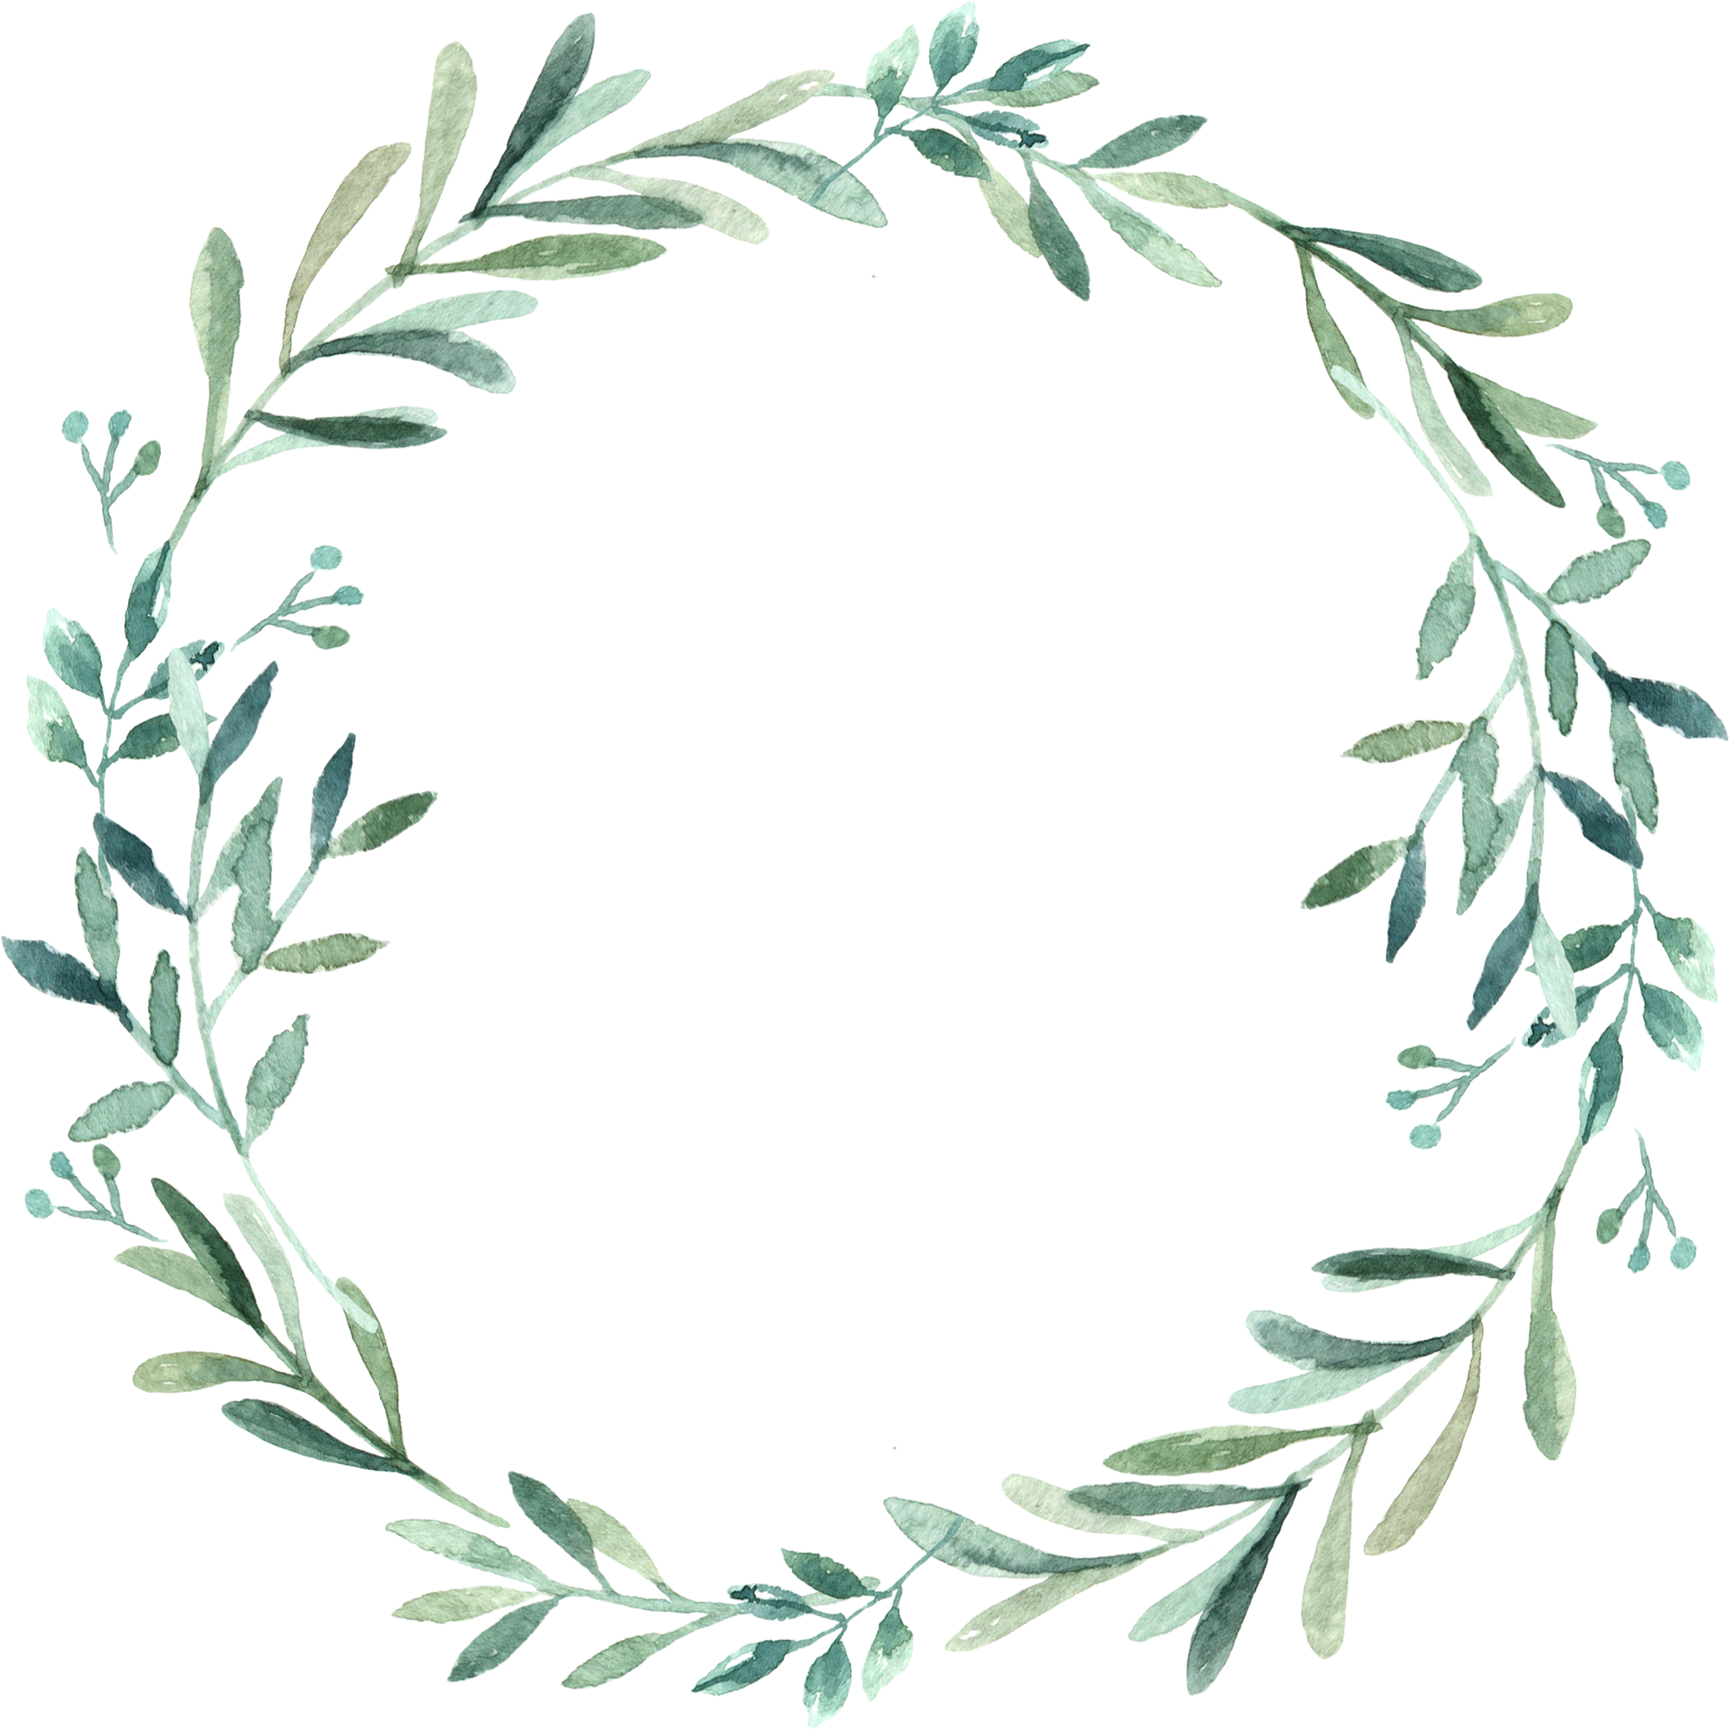
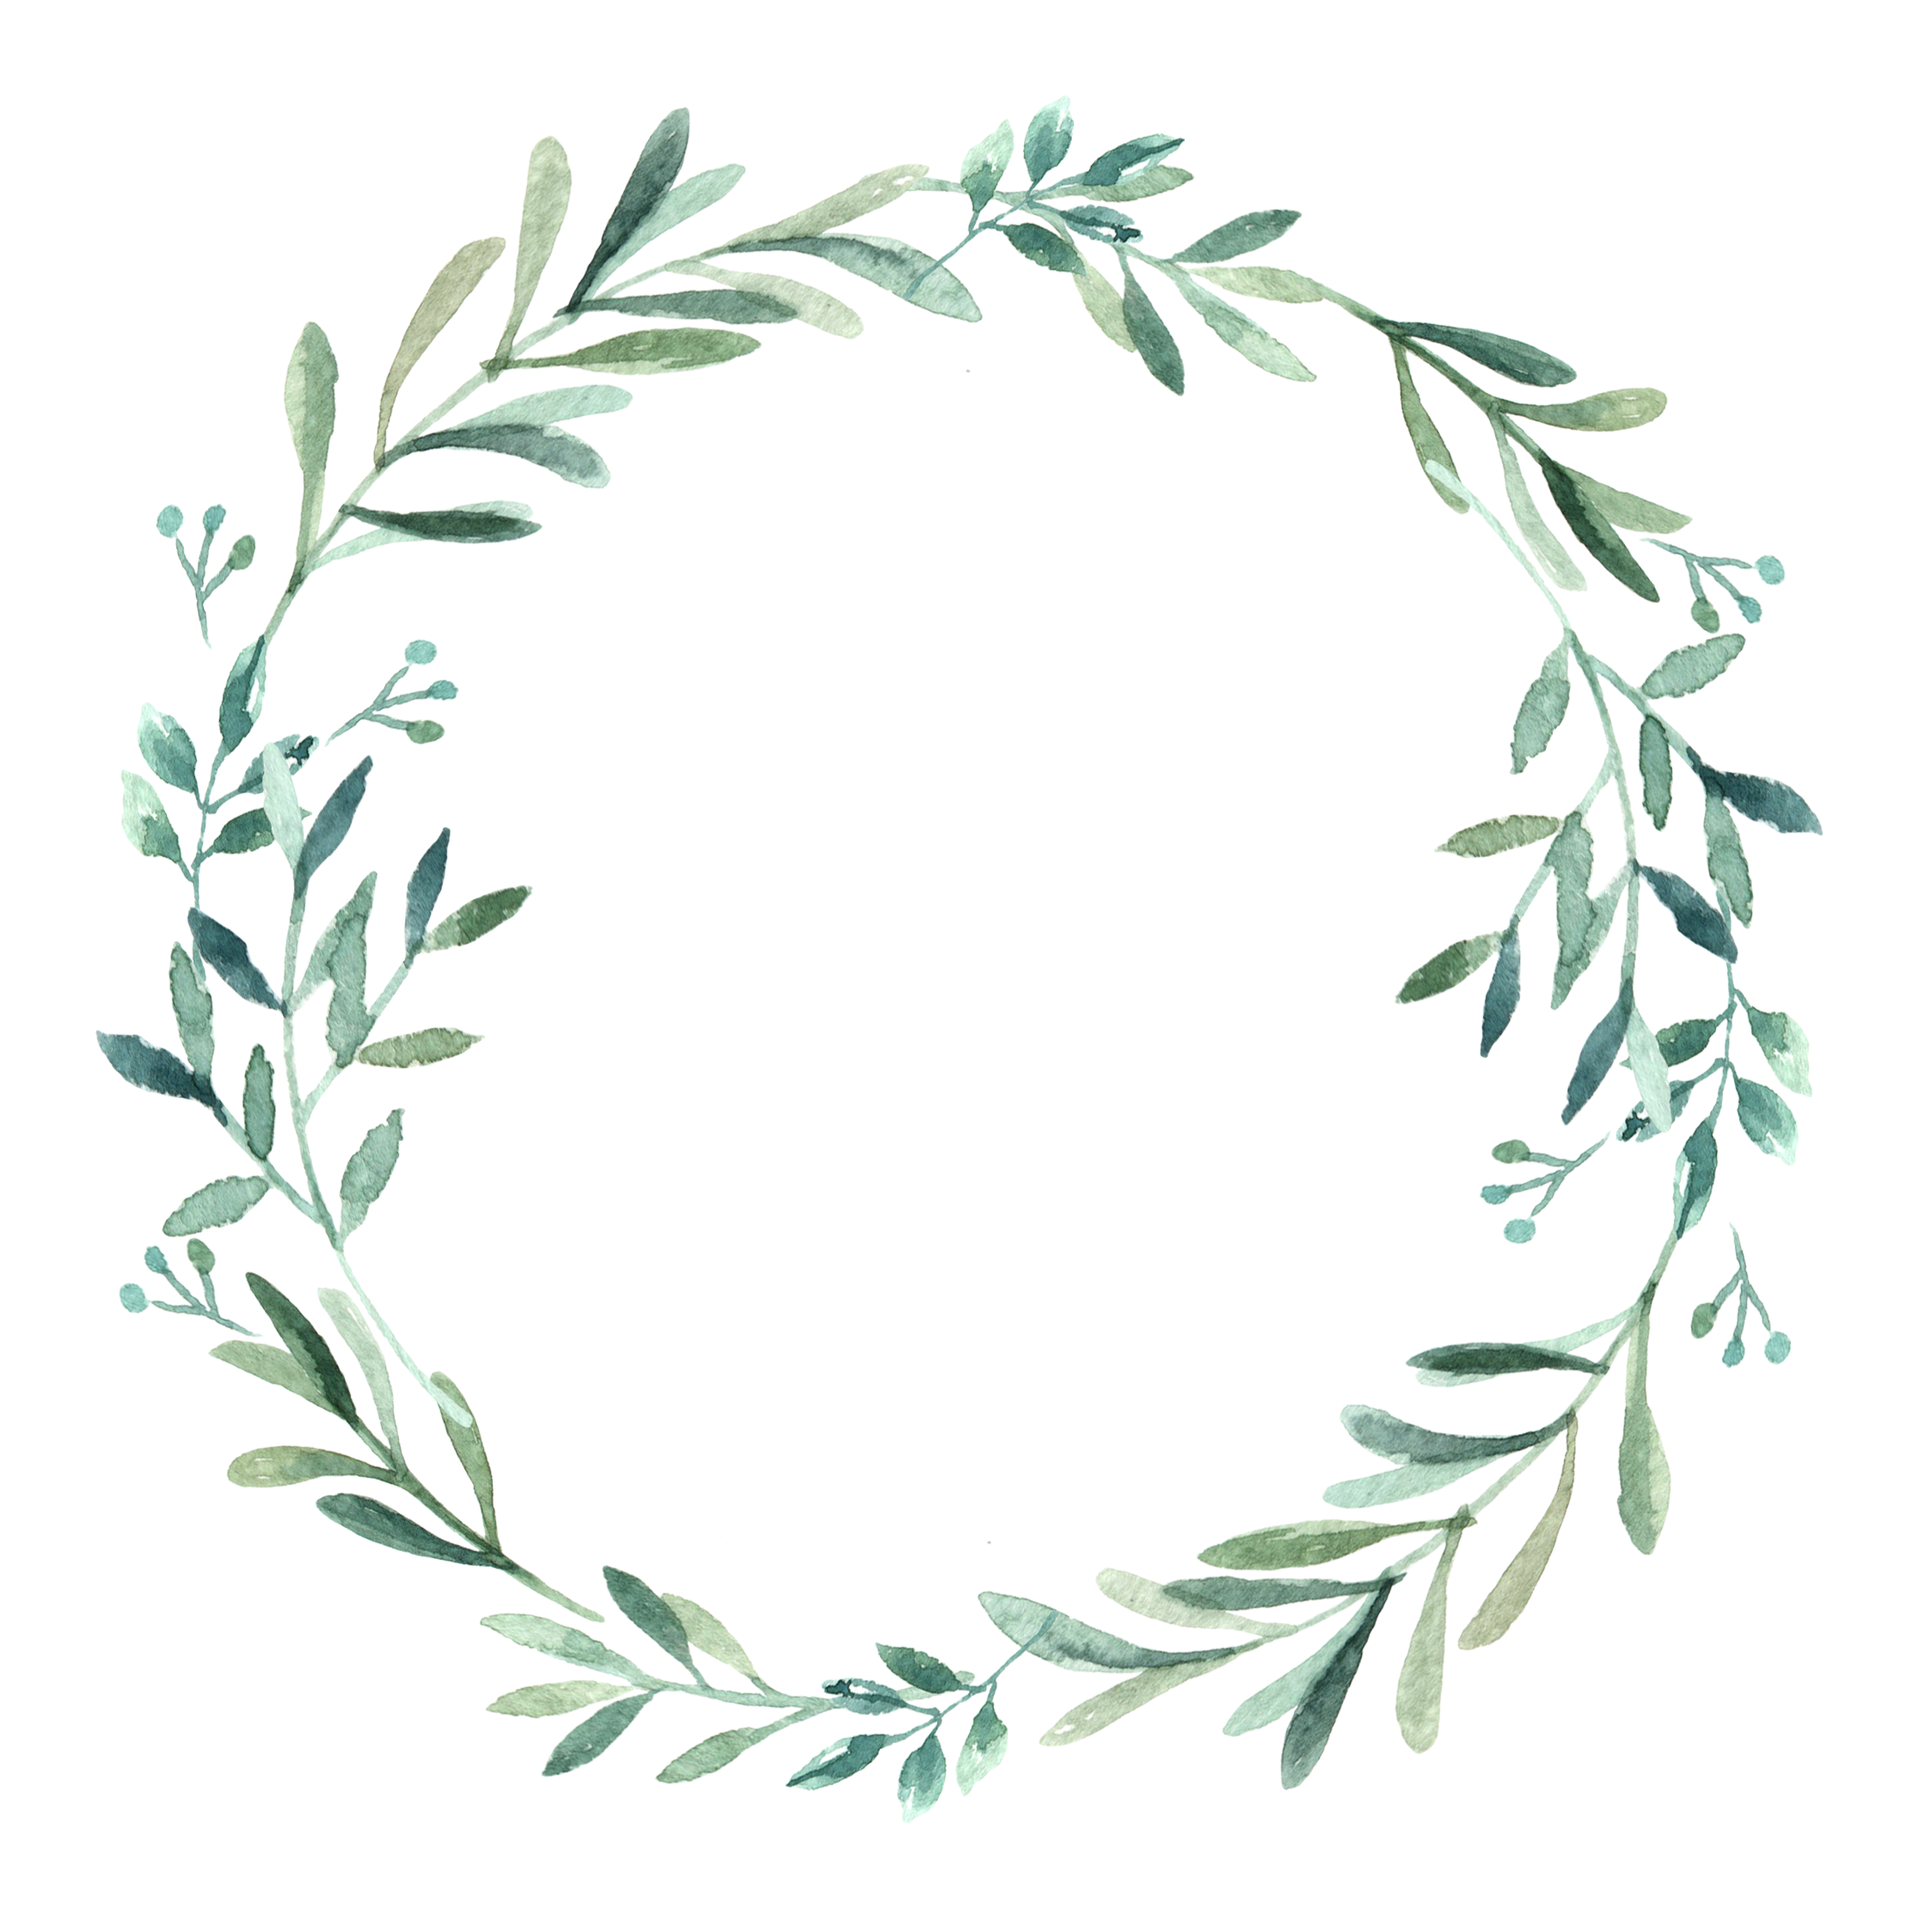
new layout

Changed region(s): [[0.0, 0.0, 1.0, 1.0]]

diff --git a/index.html b/index.html
@@ -19,6 +19,7 @@
     <link href="https://fonts.googleapis.com/css?family=Montserrat" rel="stylesheet">
     <link href="https://fonts.googleapis.com/css?family=Dancing+Script" rel="stylesheet">
     <link href="https://fonts.googleapis.com/css?family=Lora" rel="stylesheet">
+    <link href="https://fonts.googleapis.com/css?family=Cardo" rel="stylesheet">
 
     <!-- Custom CSS -->
     <link href="assets/index.css" rel="stylesheet">
@@ -47,7 +48,7 @@
     </div>
 
   <div class="text-center brand">
-    <span class="title-font ">Jessica &amp; Dennis</span>
+    <h2 class="title-font ">Jessica &amp; Dennis</h2>
   </div>
 
 <!-- NAVIGATION -->
@@ -90,40 +91,90 @@
   </header>
 <!-- /HEADER -->
 
-  <div id="content">
+  <div id="content" style="height:100%">
   <!-- 1st SECTION (first image) -->
-  <div class="bg-image bg-block text-white bg-paris-eiffel" style="height:100%">
-    <!-- 1st Section Content -->
-
-      <div class="row">
-      <div class="col-sm-12 text-center">
-        <h1 class="mt-5 title title-font">We're getting married!</h1>
-        </div>
+  <div class="bg-image section text-white bg-paris-eiffel">
+    <div class="text-heading text-heading-0 text-center title-font">
+      We're Getting Married!
     </div>
-    </div>
+  </div>
 
-<!-- OUR STORY -->
-    <div id="our-story"></div> <!-- link -->
-    <div class="bg-block bg-white">
-      <div class="container bg-transparent text-center">
-        <div class="col-sm-10 offset-sm-1 text-center">
-          <div class="bg-transparent"> <!-- Hero? -->
-            <div class="container break-from-top">
-              <img class="img" src="assets/heart-graphic.png">
-            </div>
-            <h3 class="mt-5 subtitle subtitle-font">We're Getting Married!</h3>
-            <br>
-            <div class="text-black-50">
-              Once Upon a Margolin .... [need to add our story here!!]
-              <br><br>
-            </div>
-           </div> 
-        </div>
+  <div class="bg-white bg-image section bg-wreath">
+    <div class="row">
+      <div class="col-sm-6 offset-sm-3 title-font text-center text-heading text-heading-1">
+        <h1>Jessica <br>Maleki</h1>
+        <h6>AND</h6>
+        <h1>Dennis <br>Something?</h1>
       </div>
     </div>
+  </div>
+
+  <div class="bg-white half-section">
+    <div class="row">
+      <div class="col-sm-8 offset-sm-2 title-font text-uppercase text-center">
+        <hr>
+        <br>
+        <h6>
+          #OnceUponAMargolin
+        </h6>
+        <br>
+        <h1>
+          September 14, 2019
+        </h1>
+        <br>
+        <h6>
+          Delhi, NY
+        </h6>
+        <br>
+        <hr>
+      </div>
+    </div>
+  </div>
+
+  <div class="bg-white section bg-upper-left-greenery">
+    <div class="row break-from-top">
+      <div class="title-font col-sm-12 text-center break-from-top">
+      <div class="break-from-top"></div>
+
+        <h2>How We Met</h2>
+        <h6>01.01.01</h6>
+      </div>
+      <br>
+      <div class="break-from-top title-font col-sm-6 offset-sm-3">
+        We met at a classmate’s party and didn’t think much of it. Then a bunch of us went to karaoke after a long day of back-to-back classes and we both picked, “I’d Do Anything for Love.” And it just clicked. He went low, I went high. There were fist pumps. We harmonized by accident. That’s pretty much when we thought, “Okay. This could be something.”
+      </div>
+
+    </div>
+  </div>
+
+  <div class="bg-white section bg-lower-right-greenery">
+    <div class="row">
+      <div class="title-font col-sm-12 text-center ">
+        <h2>The Proposal</h2>
+        <h6>01.01.01</h6>
+      </div>
+      <br>
+      <div class="break-from-top title-font col-sm-6 offset-sm-3">
+        On the anniversary of when we first met, we went back to our old stomping grounds to do karaoke with friends. When "I'd Do Anything for Love" came on, we ran up to the front. When the music suddenly died down, I looked over and he was down on one knee. I screamed, shouted "YES," and we were engaged.
+        <br><br>
+        We're so excited to celebrate this next chapter in our lives with you.
+        <br><br>
+        See you in San Fran!
+        <br><br>
+      </div>
+    </div>
+  </div>
 
 
-<div class="bg-green bg-half-block">
+  <div class="bg-image section text-white bg-proposal">
+    <div class="text-heading text-heading-0 text-center title-font">
+      We're Getting Married!
+    </div>
+  </div>
+
+
+
+    <div class="bg-green half-section">
       <div class="container" id="countdown-container">
         <div class="row">
           <div class="col-sm-10 offset-sm-1 text-center">

diff --git a/assets/index.css b/assets/index.css
@@ -1,6 +1,8 @@
 /* Basic Elements */
 body, html {
-	font-family: 'Lora', serif;
+	font-family: 'Cardo', serif;
+	letter-spacing: 2px;
+
 	height: 100%;
 	line-height: 2rem;
 
@@ -13,7 +15,9 @@ body, html {
 .break-from-top {
 	padding-top:50px;
 }
-
+.vertical-centerish {
+	padding-top:20%;
+}
 
 /* Blocks */
 #content {
@@ -26,8 +30,11 @@ body, html {
 	/* Full height */
     min-height: 100%;
 }
+.section {
+	height: 100%;
+}
 
-.bg-half-block {
+.half-section {
 	max-height: 100%;
 }
 
@@ -55,7 +62,7 @@ body, html {
 /* Background Images */
 .bg-paris-eiffel {
 	background-image: url(originals/eiffel-closeup.jpg);
-	background-position: right 80%;
+	background-position:  80% center;
 }
 
 .bg-eiffel-balloons {
@@ -65,39 +72,79 @@ body, html {
 
 .bg-proposal {
 	background-image: url(originals/proposal.jpg);
-	background-position: left;
+	background-position: left bottom;
 }
 
 .bg-delhi-ny {
 	background-image: url(images/delhi-ny-bg.jpg);
 }
 
-/* Text */
-.title-font {
-	font-family: 'Dancing Script', cursive;
-	font-size: 2rem;
+.bg-wreath {
+	background-image: url(images/greenery/wreath.png);
+	background-size: auto 80%;
+}
+.bg-upper-left-greenery {
+	background-image: url(images/greenery/upper-left-corner.png);
+	background-size: 40%;
+	background-repeat: no-repeat;
+}
+.bg-lower-right-greenery {
+	background-image: url(images/greenery/lower-right-corner.png);
+	background-size: 40%;
+	background-repeat: no-repeat;
+	background-position: bottom right;
 }
 
+/* Text */
+.title-font {
+	font-family: 'Cardo', serif;
+	letter-spacing: 2px;
+}
+.title-size {
+	font-size: 2rem;
+}
 .title {
-	font-size: 4rem;
+	padding-top:50px;
 }
 
 .subtitle-font {
 	font-family: 'Montserrat', sans-serif;
 	text-transform: uppercase;
-	font-size: 0.9rem;
 	font-weight: bold;
 	letter-spacing: 1px;
 }
-
-.subtitle {
-	font-size: 1.4rem;
-	letter-spacing: 2px;
+.subtitle-size {
+	font-size: 0.9rem;
 }
 
 .text-red {
 	color: #f07677;
 }
+
+.text-heading {
+	position:absolute;
+	margin-right:auto;
+	margin-left:auto;
+	left:0;
+	right:0;
+	font-size: 3.5rem;
+	line-height: 4rem;
+}
+/* for each section number, starting at 0 */
+.text-heading-0 {
+	top:45%;
+}
+.text-heading-1 {
+	top:125%;
+}
+
+.text-heading-2 {
+	top:235%;
+}
+.text-heading-3 {
+	top:335%;
+}
+
 
 /* Buttons */
 .btn-huge {
@@ -116,6 +163,7 @@ header .brand {
 .header-subtext {
 	display:inline-block;
 	padding: 10px;
+	font-size: 0.8rem;
 }
 @media screen and (max-width:575px){ /* xs */
 	.header-subtext {

diff --git a/photos.html b/photos.html
@@ -19,6 +19,7 @@
     <link href="https://fonts.googleapis.com/css?family=Montserrat" rel="stylesheet">
     <link href="https://fonts.googleapis.com/css?family=Dancing+Script" rel="stylesheet">
     <link href="https://fonts.googleapis.com/css?family=Lora" rel="stylesheet">
+    <link href="https://fonts.googleapis.com/css?family=Cardo" rel="stylesheet">
 
     <!-- Custom CSS -->
     <link href="assets/index.css" rel="stylesheet">
@@ -46,7 +47,7 @@
     </div>
 
   <div class="text-center brand">
-    <span class="title-font ">Jessica &amp; Dennis</span>
+    <h2 class="title-font">Jessica &amp; Dennis</h2>
   </div>
 
 <!-- NAVIGATION -->
@@ -91,7 +92,8 @@
 
 <!-- CONTENT -->
   <div id="content" class="bg-gray">
-    <div class="bg-block break-from-top">
+    <div class="bg-block">
+      <div class="break-from-top"></div>
       <h1 class="title title-font text-center">A few snaps taken of us over the years...</h1>
       <div class="container photo-collage">
         <div class="collage-row"> 

diff --git a/_skeleton.html b/_skeleton.html
@@ -19,6 +19,8 @@
     <link href="https://fonts.googleapis.com/css?family=Montserrat" rel="stylesheet">
     <link href="https://fonts.googleapis.com/css?family=Dancing+Script" rel="stylesheet">
     <link href="https://fonts.googleapis.com/css?family=Lora" rel="stylesheet">
+    <link href="https://fonts.googleapis.com/css?family=Cardo" rel="stylesheet">
+    
 
     <!-- Custom CSS -->
     <link href="assets/index.css" rel="stylesheet">
@@ -47,7 +49,7 @@
     </div>
 
   <div class="text-center brand">
-    <span class="title-font ">Jessica &amp; Dennis</span>
+    <h2 class="title-font ">Jessica &amp; Dennis</h2>
   </div>
 
 <!-- NAVIGATION -->

diff --git a/entourage.html b/entourage.html
@@ -19,6 +19,7 @@
     <link href="https://fonts.googleapis.com/css?family=Montserrat" rel="stylesheet">
     <link href="https://fonts.googleapis.com/css?family=Dancing+Script" rel="stylesheet">
     <link href="https://fonts.googleapis.com/css?family=Lora" rel="stylesheet">
+    <link href="https://fonts.googleapis.com/css?family=Cardo" rel="stylesheet">
 
     <!-- Custom CSS -->
     <link href="assets/index.css" rel="stylesheet">
@@ -47,7 +48,7 @@
     </div>
 
   <div class="text-center brand">
-    <span class="title-font ">Jessica &amp; Dennis</span>
+    <h2 class="title-font">Jessica &amp; Dennis</h2>
   </div>
 
 <!-- NAVIGATION -->

diff --git a/events.html b/events.html
@@ -19,6 +19,7 @@
     <link href="https://fonts.googleapis.com/css?family=Montserrat" rel="stylesheet">
     <link href="https://fonts.googleapis.com/css?family=Dancing+Script" rel="stylesheet">
     <link href="https://fonts.googleapis.com/css?family=Lora" rel="stylesheet">
+    <link href="https://fonts.googleapis.com/css?family=Cardo" rel="stylesheet">
 
     <!-- Custom CSS -->
     <link href="assets/index.css" rel="stylesheet">
@@ -46,7 +47,7 @@
     </div>
 
   <div class="text-center brand">
-    <span class="title-font ">Jessica &amp; Dennis</span>
+    <h2 class="title-font">Jessica &amp; Dennis</h2>
   </div>
 
 <!-- NAVIGATION -->

diff --git a/registry.html b/registry.html
@@ -19,6 +19,7 @@
     <link href="https://fonts.googleapis.com/css?family=Montserrat" rel="stylesheet">
     <link href="https://fonts.googleapis.com/css?family=Dancing+Script" rel="stylesheet">
     <link href="https://fonts.googleapis.com/css?family=Lora" rel="stylesheet">
+    <link href="https://fonts.googleapis.com/css?family=Cardo" rel="stylesheet">
 
     <!-- Custom CSS -->
     <link href="assets/index.css" rel="stylesheet">
@@ -46,7 +47,7 @@
     </div>
 
   <div class="text-center brand">
-    <span class="title-font ">Jessica &amp; Dennis</span>
+    <h2 class="title-font">Jessica &amp; Dennis</h2>
   </div>
 
 <!-- NAVIGATION -->

diff --git a/travel.html b/travel.html
@@ -19,6 +19,7 @@
     <link href="https://fonts.googleapis.com/css?family=Montserrat" rel="stylesheet">
     <link href="https://fonts.googleapis.com/css?family=Dancing+Script" rel="stylesheet">
     <link href="https://fonts.googleapis.com/css?family=Lora" rel="stylesheet">
+    <link href="https://fonts.googleapis.com/css?family=Cardo" rel="stylesheet">
 
     <!-- Custom CSS -->
     <link href="assets/index.css" rel="stylesheet">
@@ -46,7 +47,7 @@
     </div>
 
   <div class="text-center brand">
-    <span class="title-font ">Jessica &amp; Dennis</span>
+    <h2 class="title-font">Jessica &amp; Dennis</h2>
   </div>
 
 <!-- NAVIGATION -->
